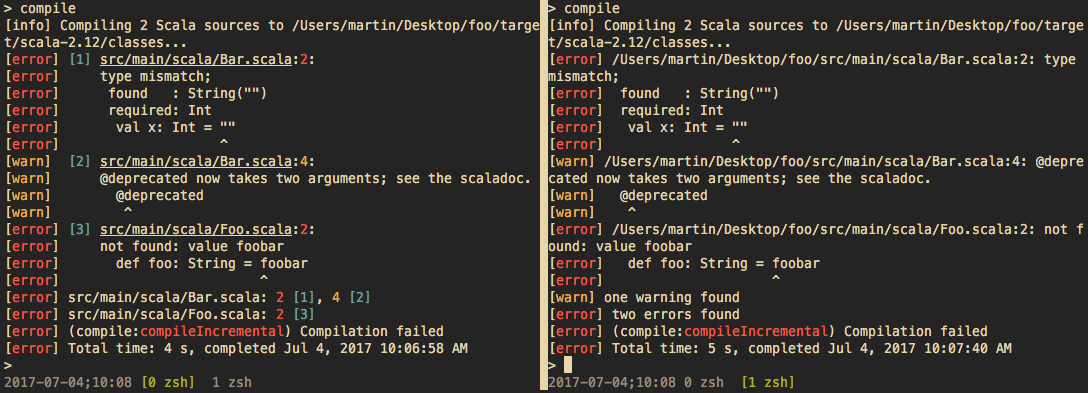
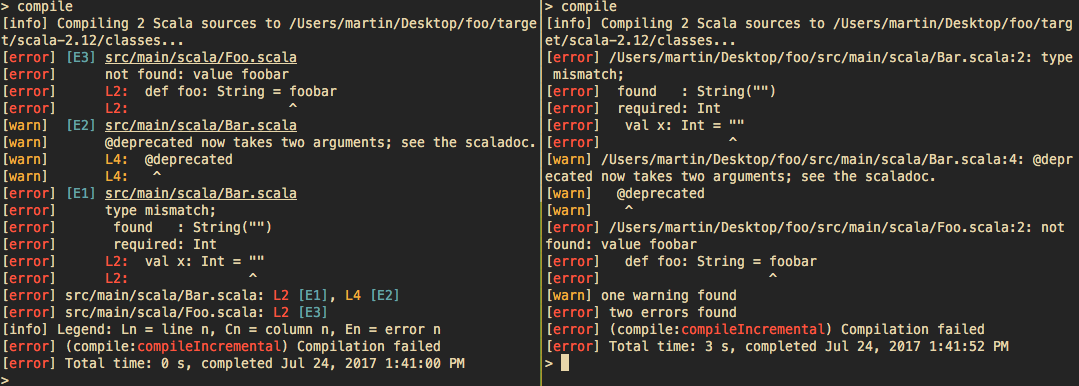
v0.5.0

Changed region(s): [[0.0, 0.0, 1.0, 0.9948]]

diff --git a/README.md b/README.md
@@ -113,6 +113,19 @@ The supported configuration options include:
 
 # Changelog
 
+## 0.5.0
+ - Add `reporterConfig` key to configure the reporter. See examples in previous section.
+ - Add configurable colors in [#21](https://github.com/Duhemm/sbt-errors-summary/pull/21)
+ - Hide unknown positions in some errors in
+     [#24](https://github.com/Duhemm/sbt-errors-summary/pull/24)
+ - Option to reverse order of error messages (first error shown last) in
+     [#28](https://github.com/Duhemm/sbt-errors-summary/pull/28)
+ - Improve readability and show faulty line number on the left in
+     [#27](https://github.com/Duhemm/sbt-errors-summary/pull/27) by
+     [@yawaramin](https://github.com/yawaramin)
+ - Add option to show legend in [#27](https://github.com/Duhemm/sbt-errors-summary/pull/27)
+     by [@yawaramin](https://github.com/yawaramin)
+
 ### 0.4.1
  - Re-fix display of relative path in [#20](https://github.com/Duhemm/sbt-errors-summary/pull/20)
 
